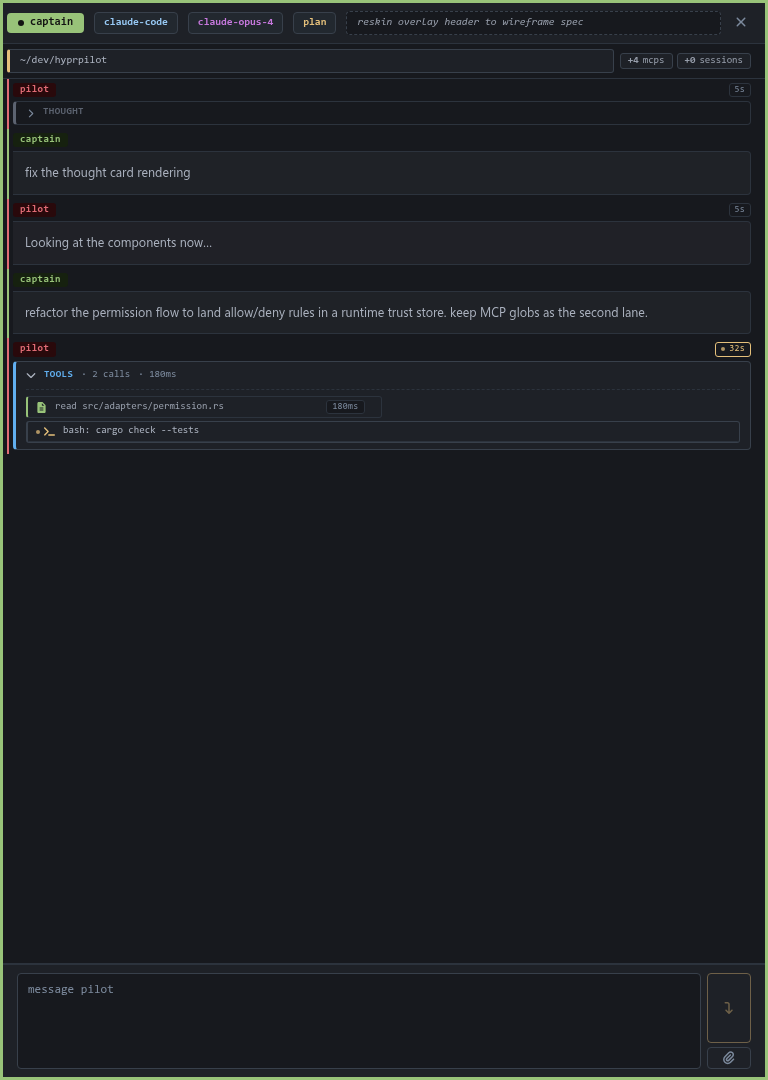
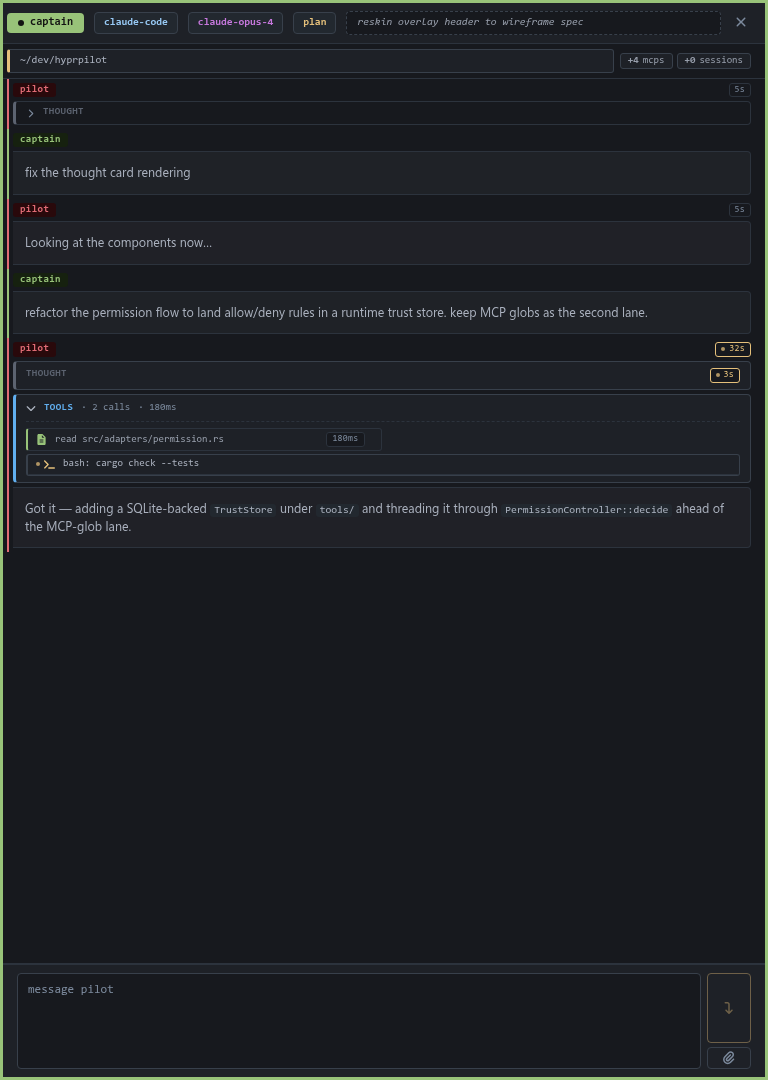
docs(screenshots): plan modal as real Modal + thoughts paired with agent messages
- permission-modal.png: pass `agentId: 'claude-code'` so the
  claude-code-acp adapter override applies and `exit_plan_mode`
  resolves to PermissionUi.Modal — the permission now lands in the
  modalQueue and renders as a backdropped centered Modal (was
  silently rendering inline as a row before because adapter was
  unresolved → fell through to kind=other → Row).
- hero seed: pair the thought block with `markThinkingStart` /
  `markThinkingEnd` so the thinking-card elapsed chip renders (`3s`),
  AND follow it with an agent_message_chunk so the thought never
  appears alone — captain rule.
- permission-row.png: same agentId fix so the row's adapter-resolved
  presentation reads correctly.
- Expose `markThinkingStart` / `markThinkingEnd` on the dev shim
  (tests/dev-preview.ts).

Changed region(s): [[0.0, 0.3361, 0.9688, 0.4889], [0.9062, 0.3361, 0.9688, 0.3667]]

diff --git a/docs/screenshots/run-all.ts b/docs/screenshots/run-all.ts
@@ -82,17 +82,25 @@ const shots: Shot[] = [
           sessionUpdate: 'user_message_chunk',
           content: { type: 'text', text: 'refactor the permission flow to land allow/deny rules in a runtime trust store. keep MCP globs as the second lane.' }
         })
+        // Thought block paired with elapsed time + a follow-up agent
+        // message — thoughts shouldn't render alone.
+        dev.markThinkingStart(id, sid, turnStart + 600)
         dev.pushThoughtChunk(id, sid, {
           sessionUpdate: 'agent_thought_chunk',
           content: { type: 'text', text: 'Looking at the current permission decision pipeline. The `PermissionController::decide` fn already has a two-lane shape — runtime trust store first, MCP globs second.\n\nThe captain wants persistent trust decisions. Plan: add a SQLite-backed store keyed on `(instance_id, tool_name)`, populate via the UI\'s "always" buttons.' }
+        })
+        dev.markThinkingEnd(id, sid, turnStart + 4000)
+        dev.pushTranscriptChunk(id, sid, {
+          sessionUpdate: 'agent_message_chunk',
+          content: { type: 'text', text: 'Got it — adding a SQLite-backed `TrustStore` under `tools/` and threading it through `PermissionController::decide` ahead of the MCP-glob lane.' }
         })
         dev.pushToolCall(id, 'claude-code', sid, {
           sessionUpdate: 'tool_call',
           toolCallId: 'tc-hero-1',
           kind: 'read',
           status: 'completed',
-          startedAtMs: turnStart + 4000,
-          completedAtMs: turnStart + 4180,
+          startedAtMs: turnStart + 4500,
+          completedAtMs: turnStart + 4680,
           formatted: { title: 'read src/adapters/permission.rs', stats: [{ kind: 'duration', ms: 180 }], fields: [] }
         })
         dev.pushToolCall(id, 'claude-code', sid, {
@@ -239,8 +247,12 @@ const shots: Shot[] = [
         })
         // Modal-class permission: tool = `exit_plan_mode` → claude-code
         // override maps to PermissionUi.Modal. Description carries
-        // markdown plan content rendered by ToolBody.
+        // markdown plan content rendered by ToolBody. `agentId` is
+        // mandatory — the adapter override only applies when the
+        // permission carries the agent so `adapterFor()` can resolve
+        // the per-vendor presentation map.
         dev.pushPermissionRequest(id, sid, {
+          agentId: 'claude-code',
           requestId: 'r-plan',
           tool: 'exit_plan_mode',
           kind: 'other',
@@ -331,6 +343,7 @@ const shots: Shot[] = [
         // route bash to PermissionUi.Row, rendering inline above the
         // composer.
         dev.pushPermissionRequest(focused, sid, {
+          agentId: 'claude-code',
           requestId: 'r-bash',
           tool: 'bash',
           kind: 'execute',

diff --git a/tests/dev-preview.ts b/tests/dev-preview.ts
@@ -222,6 +222,8 @@ async function exposeDevHelpers(): Promise<void> {
     pushPermissionRequest: composables.pushPermissionRequest,
     pushTurnStarted: composables.pushTurnStarted,
     pushTurnEnded: composables.pushTurnEnded,
+    markThinkingStart: composables.markThinkingStart,
+    markThinkingEnd: composables.markThinkingEnd,
     pushTranscriptChunk: composables.pushTranscriptChunk,
     pushThoughtChunk: composables.pushThoughtChunk,
     pushPlan: composables.pushPlan,
